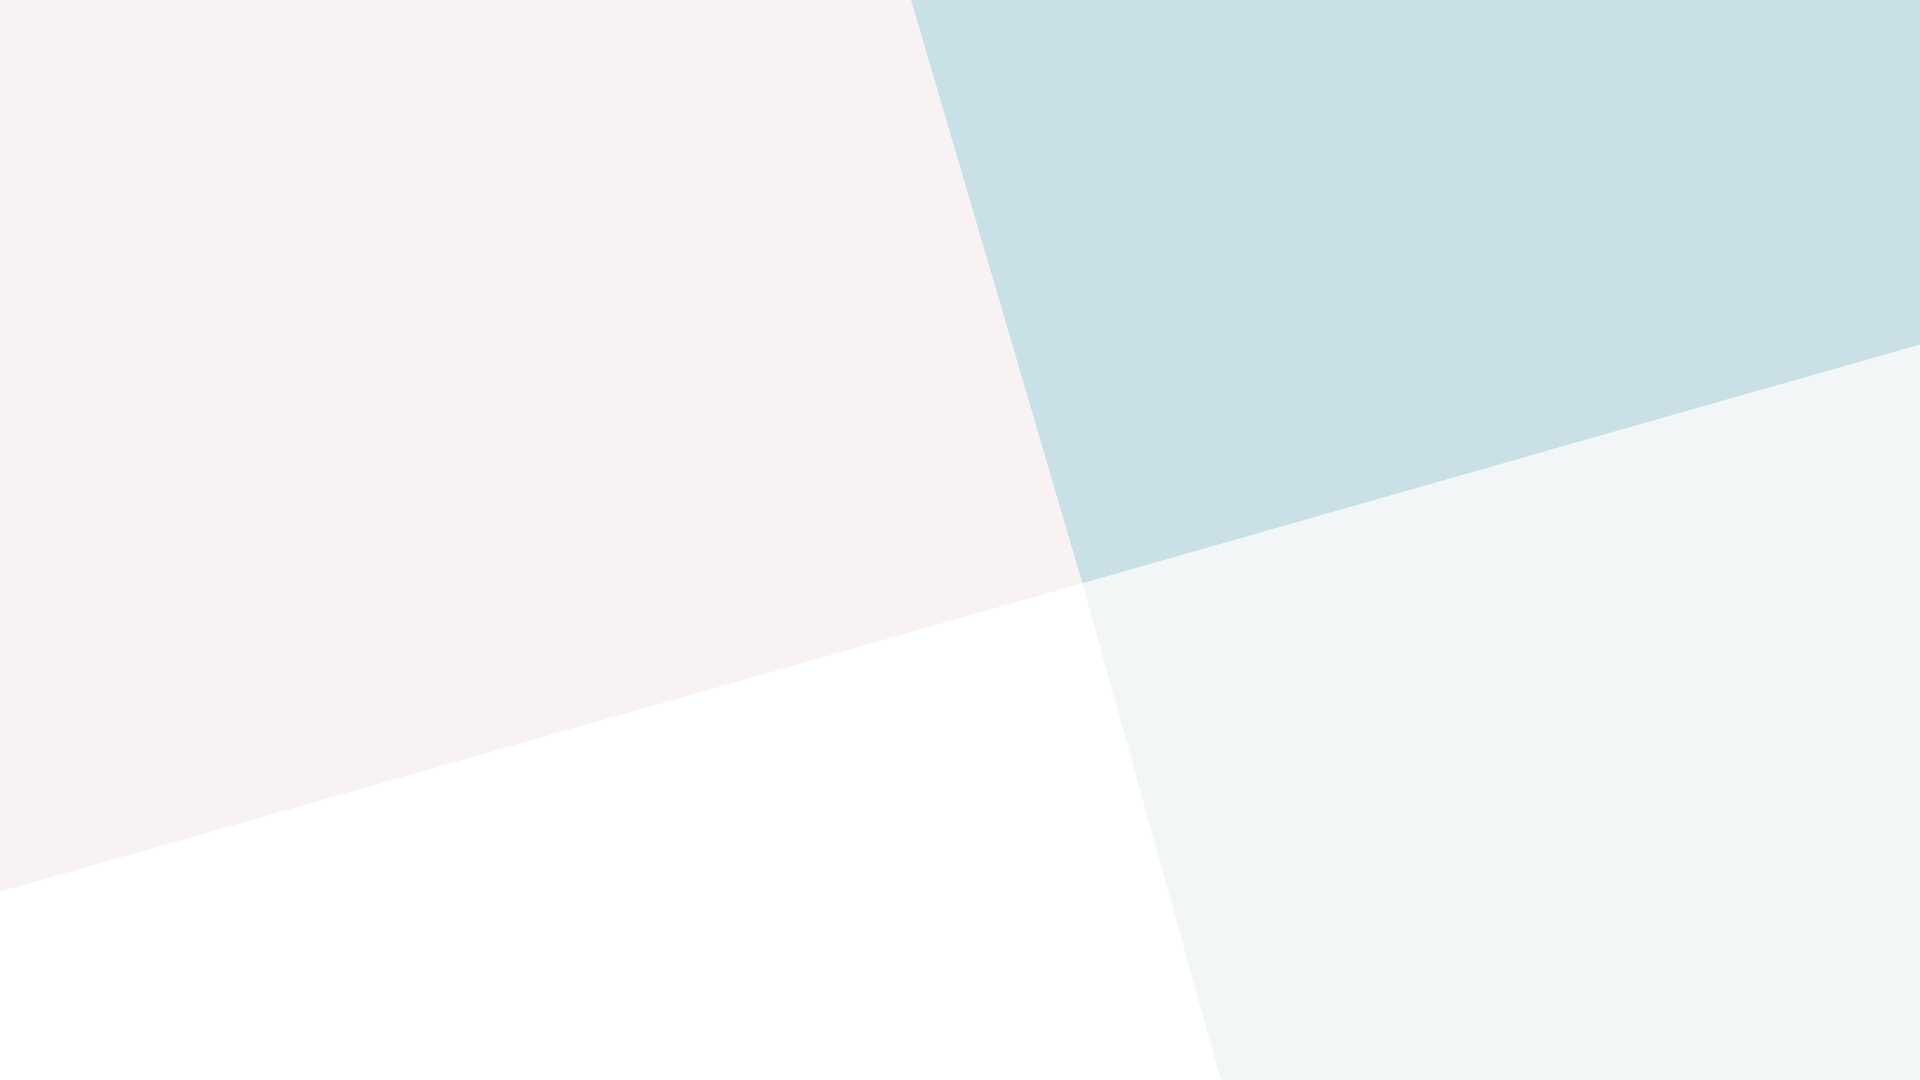
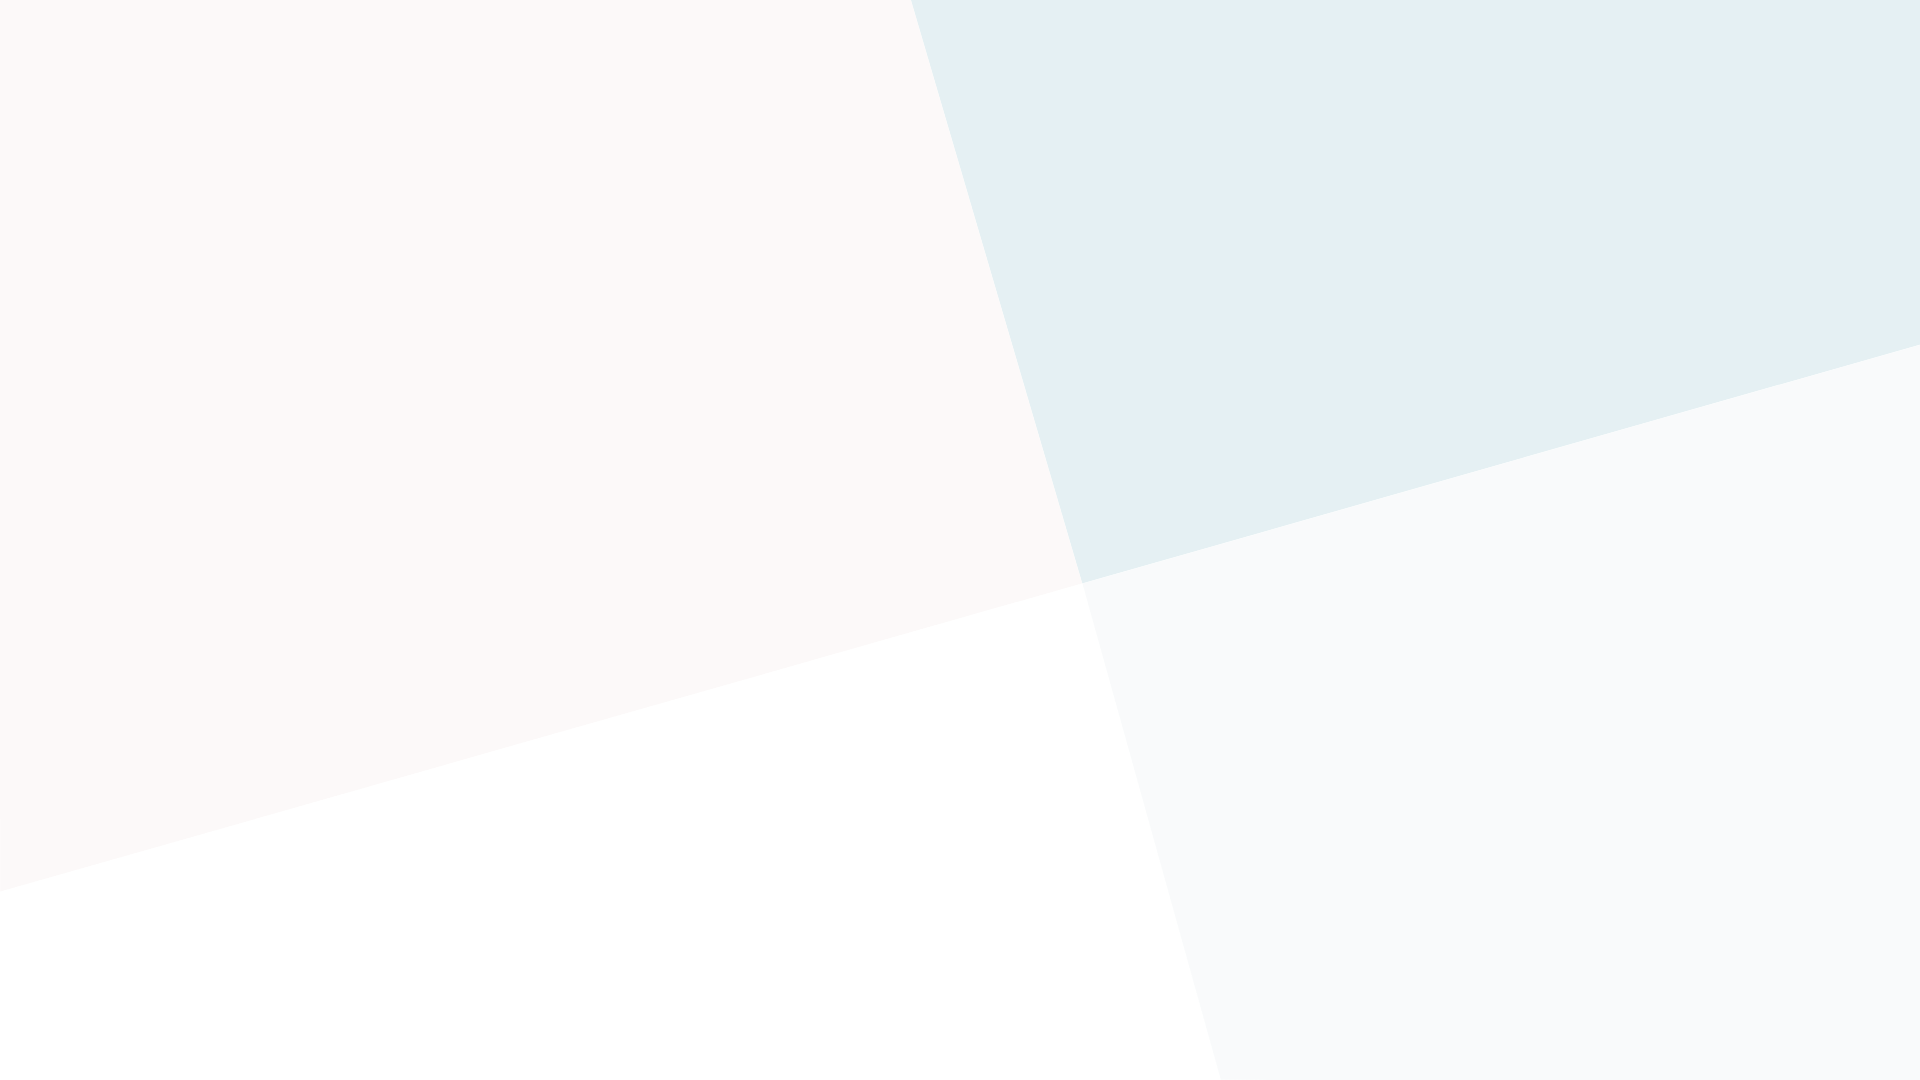
background styles added to project details

Changed region(s): [[0.4688, 0.0, 1.0, 0.55]]

diff --git a/assets/css/projectDetails.css b/assets/css/projectDetails.css
@@ -1,5 +1,5 @@
 #project-info{
-    background-image: url('/images/bg-images/');
+    background-image: url('/images/img/bg1.png');
     background-size: cover;
 }
 #project-details{
